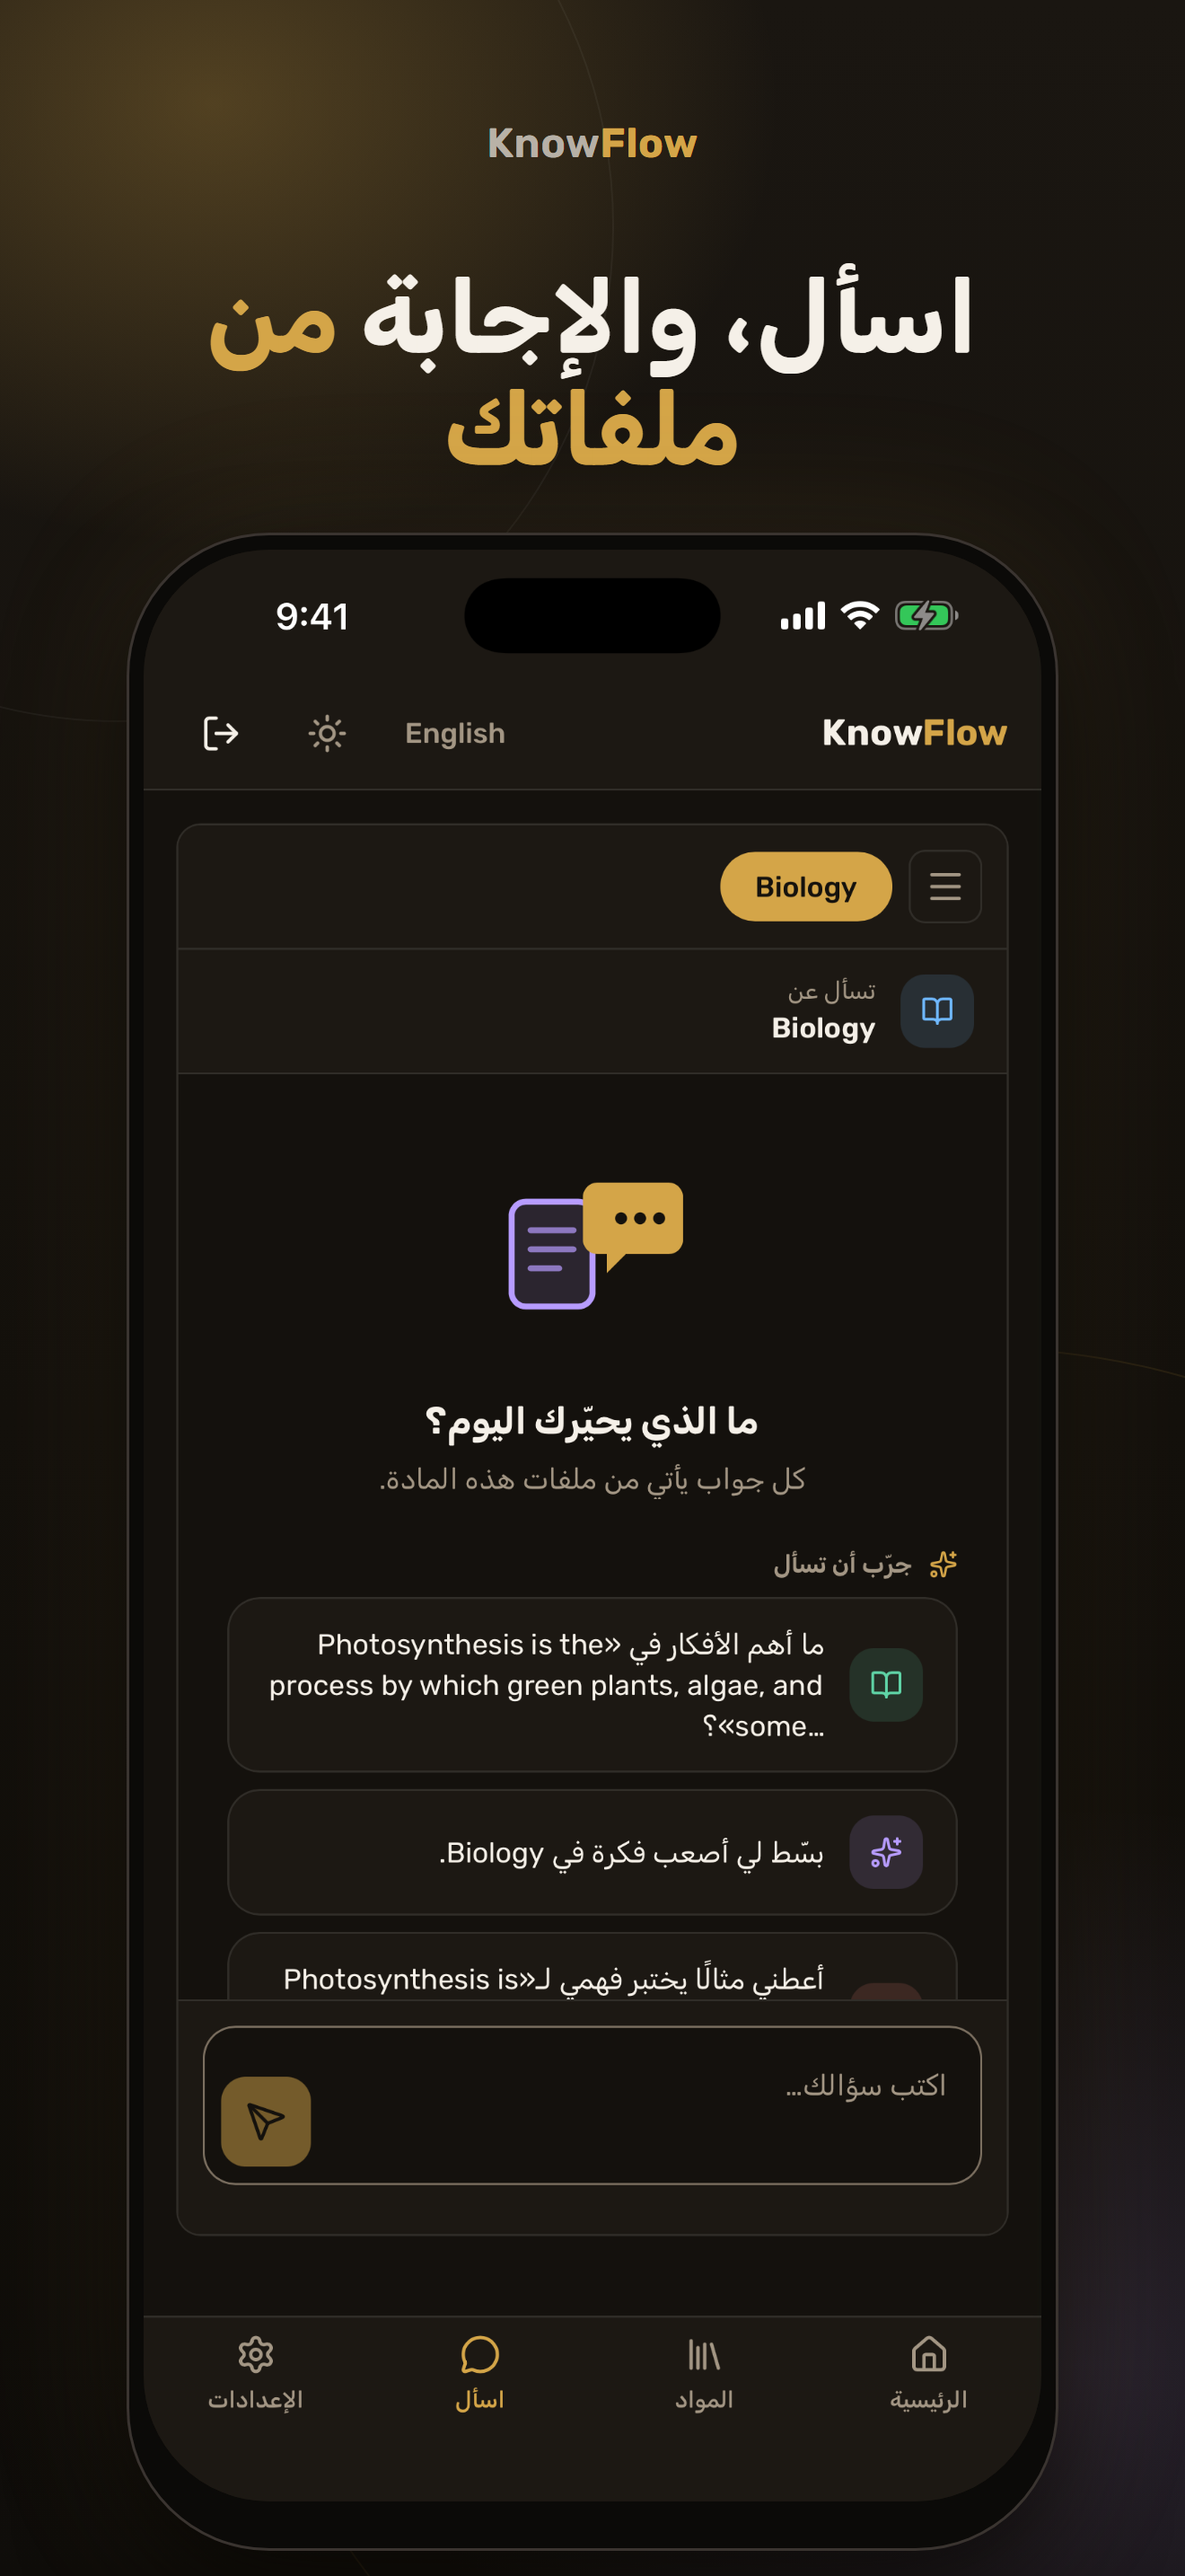
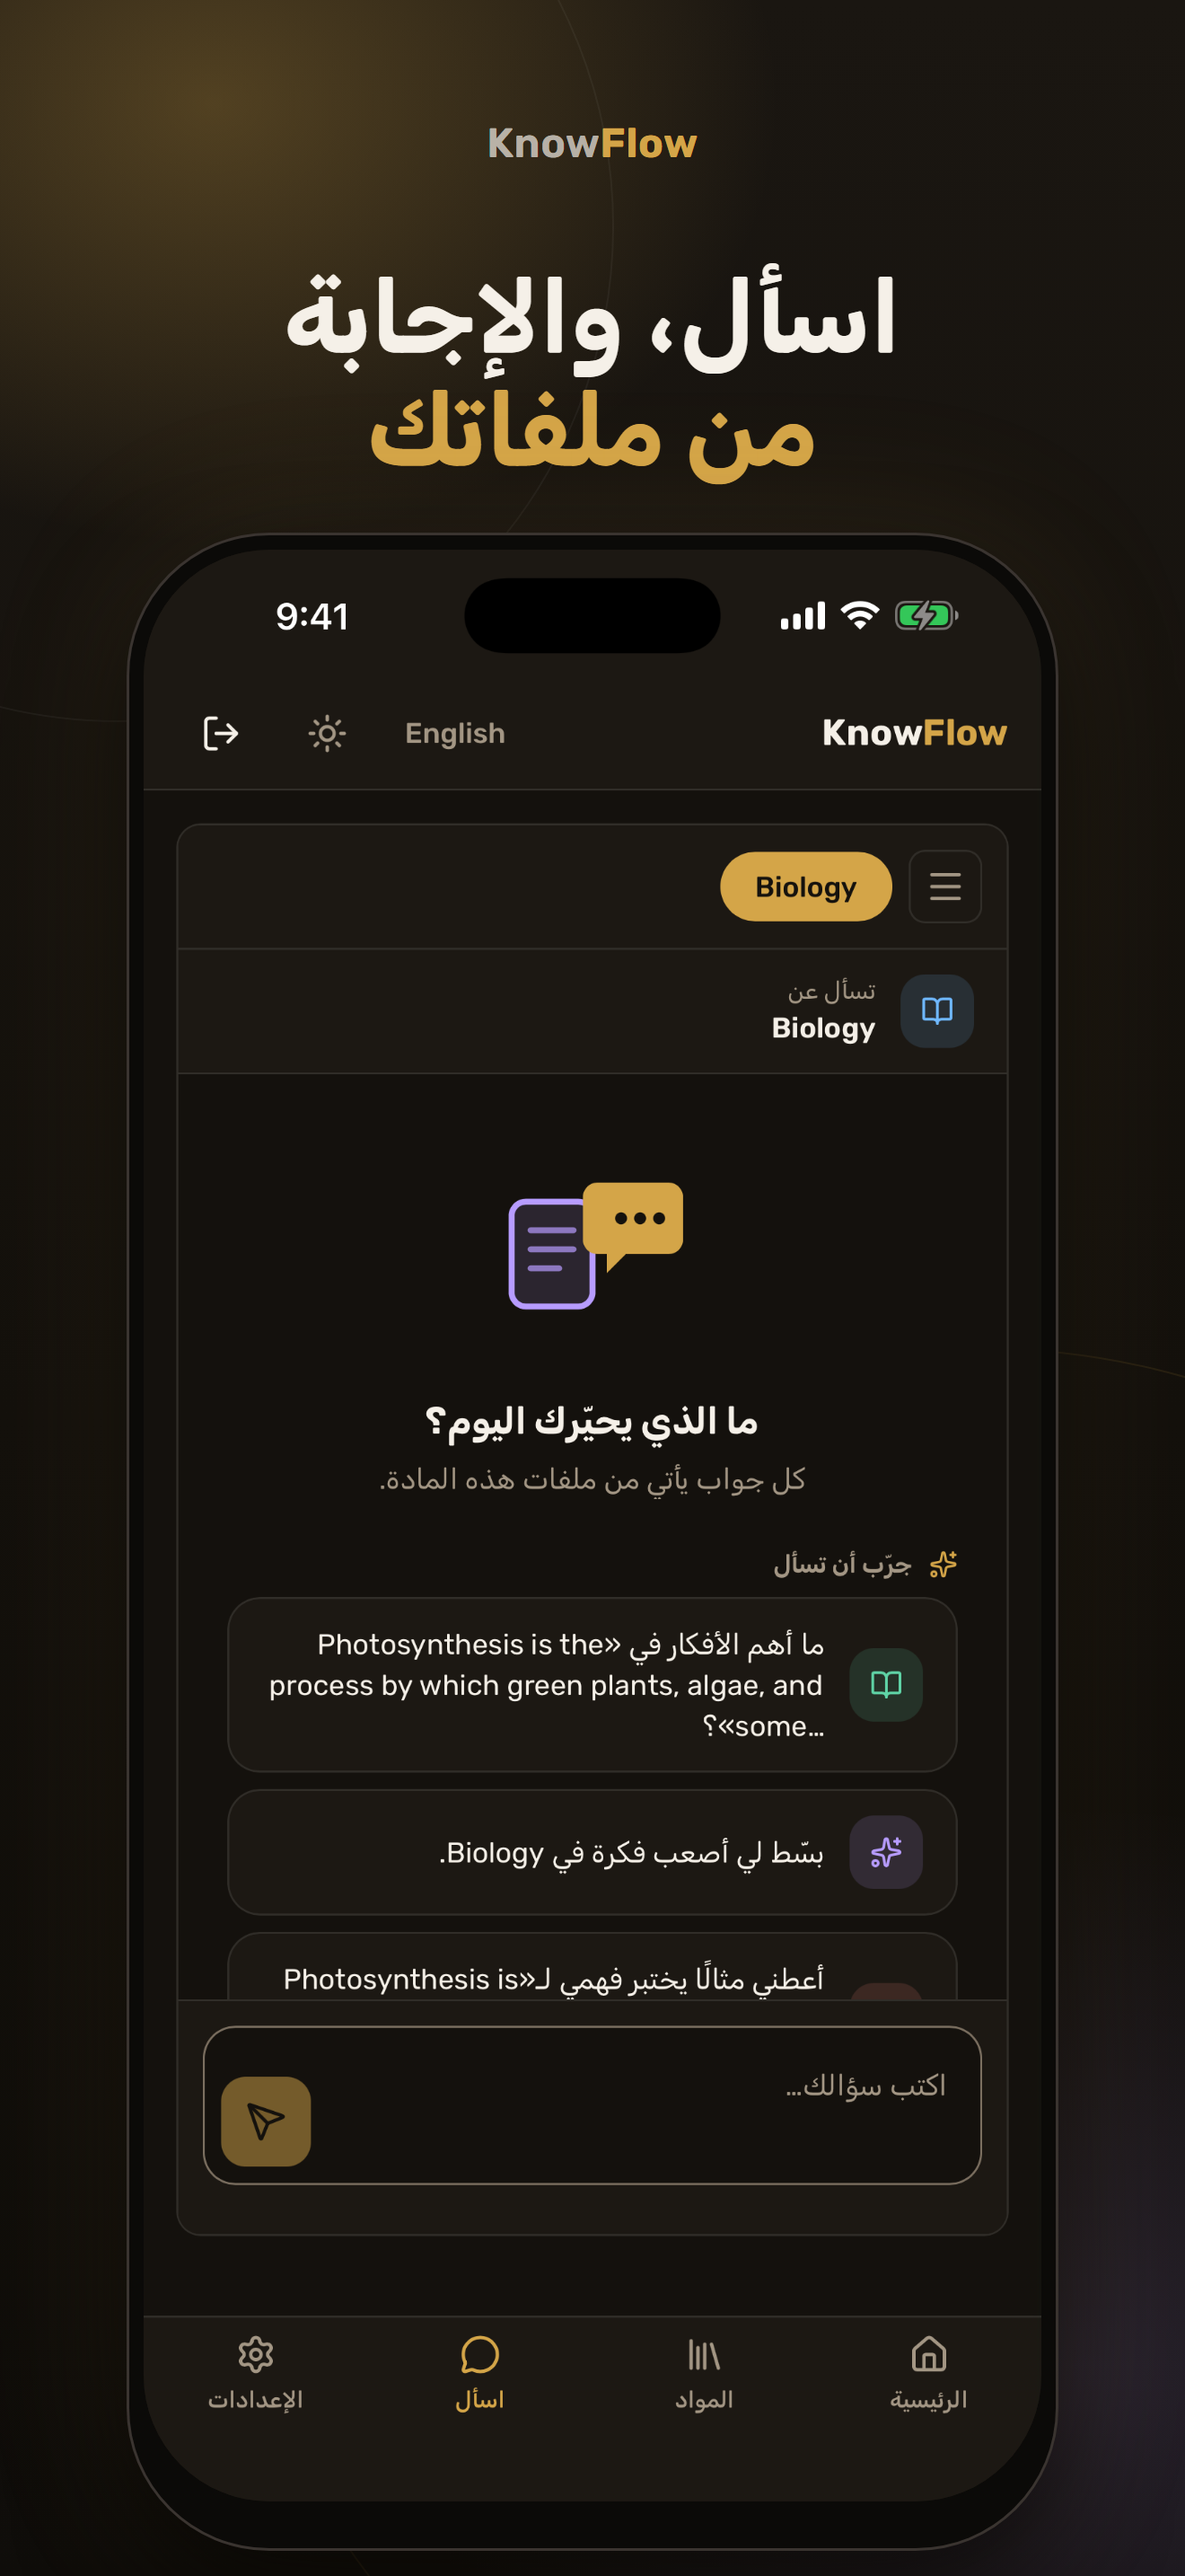
feat(store): designed App Store screenshots, step b: all ten rendered, owner's copy approval recorded, every render checked in CI (#257)
* feat(store): designed App Store screenshots, step b: all ten rendered, the owner's copy approval recorded, every render checked in CI

- captions.json: all ten captions marked approved by the owner 2026-10-12;
  Arabic caption 3 becomes "|ملخص واضح| بسرعة" (no time promise).
- render.mjs: a layout probe (via --dump-dom) refuses a caption near the
  phone, overflow, more than two lines, a broken gold phrase, Rubik not
  loaded, or Arabic letters not joined; gold phrase nowrap, lines
  balanced; one-line captions centred in the band (two-line unchanged).
- check.py: Rubik GSUB arab init/medi/fina/rlig; @ refused in captions.
- screen_intact.py: app screen equals the raw capture in all ten, with a
  negative control; the committed set equals captions.json (ten).
- ocr_scan.py + workflow: Tesseract refuses email, test account, price,
  plan, upgrade or free words anywhere in the picture, with controls.
- PROGRESS.md: one Section 7 block; no row edited.

* test(store): ocr_scan prints the text around a refused word

* test(store): ocr_scan refuses a price with cents, a period word, or a currency figure sharing a line with text; the Settings gear icon read as a lone "$3" no longer counts

---------

Changed region(s): [[0.1553, 0.0931, 0.8386, 0.1862]]

diff --git a/scripts/store-shots/check.py b/scripts/store-shots/check.py
@@ -10,7 +10,10 @@ standard library only.
    cmap table, so no caption letter can fall back to another font. Chrome
    shapes Arabic through the font's GSUB table, which the file carries.
 3. The licence file sits next to the font.
-4. No caption carries a dash, a price or a plan word.
+4. No caption carries a dash, an @, a price or a plan word.
+5. Rubik's GSUB gives the Arabic script the init, medi and fina forms and
+   the rlig lam-alef ligature (its default glyphs are the isolated forms);
+   render.mjs proves in Chrome that the captions really join.
 
 Usage: python3 scripts/store-shots/check.py <png> [<png> ...]
 """
@@ -63,7 +66,26 @@ def cmap_codepoints(path):
             for g in range(struct.unpack('>I', c[so + 12:so + 16])[0]):
                 s, e, _ = struct.unpack('>III', c[so + 16 + 12 * g:so + 28 + 12 * g])
                 cov.update(range(s, e + 1))
-    return cov, set(tables)
+    return cov, tables, d
+
+
+def arabic_features(d, tables):
+    """The feature tags Rubik's GSUB gives the Arabic script's default language."""
+    off = tables['GSUB'][0]
+    script_list, feature_list = struct.unpack('>HH', d[off + 4:off + 8])
+    sl, fl = off + script_list, off + feature_list
+    tags = []
+    for i in range(struct.unpack('>H', d[fl:fl + 2])[0]):
+        tags.append(d[fl + 2 + 6 * i:fl + 6 + 6 * i].decode('latin1'))
+    for i in range(struct.unpack('>H', d[sl:sl + 2])[0]):
+        tag = d[sl + 2 + 6 * i:sl + 6 + 6 * i].decode('latin1')
+        if tag != 'arab':
+            continue
+        st = sl + struct.unpack('>H', d[sl + 6 + 6 * i:sl + 8 + 6 * i])[0]
+        ls = st + struct.unpack('>H', d[st:st + 2])[0]
+        n = struct.unpack('>H', d[ls + 4:ls + 6])[0]
+        return {tags[j] for j in struct.unpack('>%dH' % n, d[ls + 6:ls + 6 + 2 * n])}
+    return set()
 
 
 # 1. The PNGs.
@@ -80,16 +102,18 @@ for p in pngs:
 
 # 2. The font covers every caption letter; 3. the licence is there; 4. the words.
 captions = json.load(open(os.path.join(DESIGNED, 'captions.json'), encoding='utf-8'))
-cov, tables = cmap_codepoints(FONT)
+cov, tables, font = cmap_codepoints(FONT)
 need('GSUB' in tables and 'GPOS' in tables, 'Rubik carries GSUB and GPOS (Arabic shaping and positioning)')
+feats = arabic_features(font, tables) if 'GSUB' in tables else set()
+need({'init', 'medi', 'fina', 'rlig'} <= feats, f'Rubik GSUB gives the arab script its joining forms and lam-alef (features: {sorted(feats)})')
 need(os.path.isfile(os.path.join(os.path.dirname(FONT), 'OFL.txt')), 'OFL.txt sits next to the font')
-forbidden = re.compile(r'—|–|\$|\bfree\b|\bpro\b|\bplan\b|upgrade|price|مجان|الترقية|باقة|سعر', re.I)
+forbidden = re.compile(r'@|—|–|\$|\bfree\b|\bpro\b|\bplan\b|upgrade|price|مجان|الترقية|باقة|سعر', re.I)
 for locale in ('en', 'ar'):
     for entry in captions[locale]:
         text = entry['caption'].replace('|', '')
         missing = sorted({ch for ch in text if not ch.isspace() and ord(ch) not in cov})
         need(not missing, f'{locale}/{entry["file"]}: every caption letter has a Rubik glyph (missing: {missing})')
-        need(not forbidden.search(text), f'{locale}/{entry["file"]}: no dash, price or plan word in the caption')
+        need(not forbidden.search(text), f'{locale}/{entry["file"]}: no dash, email, price or plan word in the caption')
         need(len(text.split()) <= 6, f'{locale}/{entry["file"]}: caption is short ({len(text.split())} words)')
 
 print(f'\n{len(fails)} failure(s)')

diff --git a/scripts/store-shots/screen_intact.py b/scripts/store-shots/screen_intact.py
@@ -1,0 +1,67 @@
+#!/usr/bin/env python3
+"""
+Proves that nothing the design adds (caption, mark, glow, rings) covers the app
+screen in any designed screenshot: the screen area of each PNG is compared
+with its raw capture from docs/store/screenshots, scaled the way the page
+scales it (1320 x 2868 into 1000 x 2173 at x 160, y 612, render.mjs), inside
+the screen's rounded corners. More than 0.5 % of those pixels differing by
+more than 48 of 255 fails the file. A negative control first paints a caption
+sized block onto one screen and must be caught, so a blind check cannot pass.
+
+The set of designed PNGs must equal the entries of captions.json, ten in all.
+
+Usage: python3 scripts/store-shots/screen_intact.py <dir with en/ and ar/>
+Needs Pillow (pinned in .github/workflows/store-shots.yml).
+"""
+import json
+import os
+import sys
+from PIL import Image, ImageChops, ImageDraw
+
+ROOT = os.path.abspath(os.path.join(os.path.dirname(__file__), '..', '..'))
+RAW = os.path.join(ROOT, 'docs', 'store', 'screenshots')
+CAPTIONS = os.path.join(ROOT, 'docs', 'store', 'screenshots-designed', 'captions.json')
+X, Y, SW, SH, RADIUS = 160, 612, 1000, 2173, 140
+BOUND = 0.005
+
+mask = Image.new('L', (SW, SH), 0)
+ImageDraw.Draw(mask).rounded_rectangle((6, 6, SW - 7, SH - 7), RADIUS - 6, fill=255)
+inside = mask.histogram()[255]
+
+
+def changed(designed, raw_path):
+    d = designed.convert('RGB').crop((X, Y, X + SW, Y + SH))
+    r = Image.open(raw_path).convert('RGB').resize((SW, SH), Image.LANCZOS)
+    diff = ImageChops.difference(d, r).convert('L').point(lambda v: 255 if v > 48 else 0)
+    hit = ImageChops.multiply(diff, mask)
+    return hit.histogram()[255] / inside
+
+
+root = sys.argv[1]
+captions = json.load(open(CAPTIONS, encoding='utf-8'))
+fails = 0
+expected = {f'{loc}/{e["file"]}' for loc in ('en', 'ar') for e in captions[loc]}
+found = {f'{loc}/{f}' for loc in ('en', 'ar') if os.path.isdir(os.path.join(root, loc))
+         for f in os.listdir(os.path.join(root, loc)) if f.endswith('.png')}
+ok = found == expected and len(expected) == 10
+print(('ok   ' if ok else 'FAIL ') + f'{root}: the PNGs are exactly the ten entries of captions.json (missing {sorted(expected - found)}, extra {sorted(found - expected)})')
+fails += 0 if ok else 1
+
+first = sorted(expected)[0]
+loc, name = first.split('/')
+control = Image.open(os.path.join(root, loc, name)).convert('RGB')
+ImageDraw.Draw(control).rectangle((X + 200, Y + 400, X + 800, Y + 520), fill=(212, 165, 72))
+ratio = changed(control, os.path.join(RAW, loc, name))
+ok = ratio > BOUND
+print(('ok   ' if ok else 'FAIL ') + f'negative control: a 600 x 120 block painted on {first} is caught ({ratio:.4%} > {BOUND:.1%})')
+fails += 0 if ok else 1
+
+for key in sorted(expected & found):
+    loc, name = key.split('/')
+    ratio = changed(Image.open(os.path.join(root, loc, name)), os.path.join(RAW, loc, name))
+    ok = ratio <= BOUND
+    print(('ok   ' if ok else 'FAIL ') + f'{key}: the app screen is uncovered ({ratio:.4%} of screen pixels differ from the raw capture)')
+    fails += 0 if ok else 1
+
+print(f'\n{fails} failure(s)')
+sys.exit(1 if fails else 0)

diff --git a/scripts/store-shots/ocr_scan.py b/scripts/store-shots/ocr_scan.py
@@ -1,0 +1,59 @@
+#!/usr/bin/env python3
+"""
+Reads every designed screenshot with Tesseract (eng) and refuses any that shows
+an email address, a test account marker, or a price, plan, upgrade or free
+word anywhere in the picture, the app screen included, not only the caption.
+Two controls keep the reader honest: each screenshot must yield the word
+"KnowFlow" (the mark above the caption), and a synthetic image carrying an
+email address must be caught.
+
+Usage: python3 scripts/store-shots/ocr_scan.py <png> [<png> ...]
+Needs the tesseract binary (apt tesseract-ocr) and Pillow.
+"""
+import os
+import re
+import subprocess
+import sys
+import tempfile
+from PIL import Image, ImageDraw, ImageFont
+
+EMAIL = re.compile(r'[A-Za-z0-9._%+-]+\s?@\s?[A-Za-z0-9-]+\s?\.\s?[A-Za-z]{2,}')
+MARKERS = re.compile(r'tornido|kf0928|kf0929|kf1004|@gmail|\+kf\d', re.I)
+WORDS = re.compile(r'\bfree\b|\bupgrade\b|\bprice\b|\bpricing\b|\bplan\b|\bpro\b|[$€]\s?\d+[.,]\d{2}|\d\s?(usd|eur|mad)\b|/\s?(mo|month|year)\b|per (month|year)', re.I)
+# A bare currency figure counts only on a line with other text: the Settings
+# tab's gear icon reads as a line holding only "$3" (run 38242025815).
+CURRENCY = re.compile(r'[$€]\s?\d')
+fails = 0
+
+
+def need(cond, msg):
+    global fails
+    print(('ok   ' if cond else 'FAIL ') + msg)
+    fails += 0 if cond else 1
+
+
+def read(path):
+    r = subprocess.run(['tesseract', path, '-', '-l', 'eng', '--psm', '11'], capture_output=True, text=True)
+    return r.stdout
+
+
+with tempfile.TemporaryDirectory() as tmp:
+    control = os.path.join(tmp, 'control.png')
+    im = Image.new('RGB', (1320, 400), (20, 17, 13))
+    ImageDraw.Draw(im).text((60, 150), 'someone.test@example.com', fill=(245, 240, 232), font=ImageFont.load_default(size=72))
+    im.save(control)
+    need(bool(EMAIL.search(read(control))), 'control: an email address drawn on a test image is read and caught')
+
+for p in sys.argv[1:]:
+    text = read(p)
+    name = '/'.join(p.replace('\\', '/').split('/')[-2:])
+    need('knowflow' in text.lower().replace(' ', ''), f'{name}: the reader sees the KnowFlow mark')
+    hit = EMAIL.search(text) or MARKERS.search(text)
+    need(not hit, f'{name}: no email address or test account marker ({hit.group(0) if hit else "none"})')
+    w = WORDS.search(text) or next((m for line in text.splitlines() if line.strip() and not re.fullmatch(r'\s*[$€]\s?\d+\s*', line)
+                                     for m in [CURRENCY.search(line)] if m), None)
+    ctx = w.string[max(0, w.start() - 40):w.end() + 40].replace('\n', ' | ') if w else ''
+    need(not w, f'{name}: no price, plan, upgrade or free word ({w.group(0) if w else "none"}{": " + repr(ctx) if w else ""})')
+
+print(f'\n{fails} failure(s)')
+sys.exit(1 if fails else 0)

diff --git a/docs/PROGRESS.md b/docs/PROGRESS.md
@@ -451,6 +451,15 @@ bodies total 37,095 bytes. **This retires the Option C frozen-tail invariant by 
 existed only to police a boundary inside an unreviewable single line, and the append-only rule above
 supersedes it. No bespoke hash is needed for future updates: the diff is the proof.
 
+### 2026-10-12 - Store screenshots designed, step b: all ten rendered and committed, the owner's copy approval recorded, the CI checks extended to every render; nothing uploaded
+
+**No row is edited** (rows 42, 69 and 81 untouched). Files: `docs/store/screenshots-designed/{en,ar}/*.png` (ten, in upload order), `captions.json`, `scripts/store-shots/{render.mjs,check.py,screen_intact.py,ocr_scan.py}`, `.github/workflows/store-shots.yml`. The raw captures in `docs/store/screenshots` are untouched. Nothing was sent to App Store Connect.
+
+- **The copy.** Every English and Arabic caption is marked `approved: owner 2026-10-12` in captions.json. Arabic caption 3 is the owner's change, "ملخص واضح بسرعة" with "ملخص واضح" in gold, replacing the draft that promised a time in seconds the app cannot keep for large files.
+- **Layout checks in the render.** A probe in each page, read back through Chrome's `--dump-dom`, refuses a caption less than 32 px above the phone, a caption wider than the canvas or on more than two lines, a gold phrase broken across lines, Rubik not loaded, a raw capture not loaded at full size, and, for Arabic, letters that did not join (the caption must be at least 5 % narrower than the same letters forced apart with ZWNJ; measured 13 % to 50 % on the five). The probe caught a real defect on its first run: "Every subject in |one place|" broke the gold phrase as "one / place"; the gold phrase is now `nowrap` and the lines balanced. One-line Arabic captions (02, 03, 05) are centred in the caption band; two-line captions sit where the approved samples did, unchanged within 0.03 px.
+- **Picture checks in CI.** `check.py` now also proves from Rubik's GSUB that the arab script has init, medi, fina and rlig, and refuses an @ in a caption. `screen_intact.py` compares the screen area of each PNG with its raw capture inside the rounded corners (0.0000 % differing on all ten; bound 0.5 %), after a painted 600 x 120 block on one screen is caught as a negative control, and requires the committed set to equal the ten entries of captions.json. `ocr_scan.py` reads every committed PNG with Tesseract (Ubuntu package, free) and refuses an email address, a test account marker, or a price, plan, upgrade or free word anywhere in the picture; the reader must see the KnowFlow mark on each and catch a drawn email address. The fresh-render pixel match (1.5 % noise bound) now covers all ten.
+- **Seen in the app screens, not fixed here (the raw captures are inputs).** ar/04-ask: the suggestion chips quote the material's first sentence inside Arabic text and the guillemets and question mark land in the wrong places (a bidi isolation defect in the Ask suggestions). ar/02-material: the parenthesised size note "(حتى 4 ميغابايت للملف الواحد)" wraps with the bracket and the number apparently misplaced at the line end (to confirm in the app). ar/03-summary shows an English summary, because the sample material is English. en/02-material says "click to upload" on a phone. Reminder time shows "7:00 PM" in the Arabic screen.
+
 ### 2026-10-10 - Store screenshots designed, step a: the render pipeline, two samples (en/04-quiz, ar/04-ask) and ten caption drafts; nothing uploaded
 
 **No row is edited** (rows 42, 69 and 81 untouched). Files: `docs/store/screenshots-designed/` (captions.json, fonts/rubik with OFL.txt, en/04-quiz.png, ar/04-ask.png), `scripts/store-shots/render.mjs`, `scripts/store-shots/check.py`, `.github/workflows/store-shots.yml`. The raw captures in `docs/store/screenshots` are untouched inputs.
